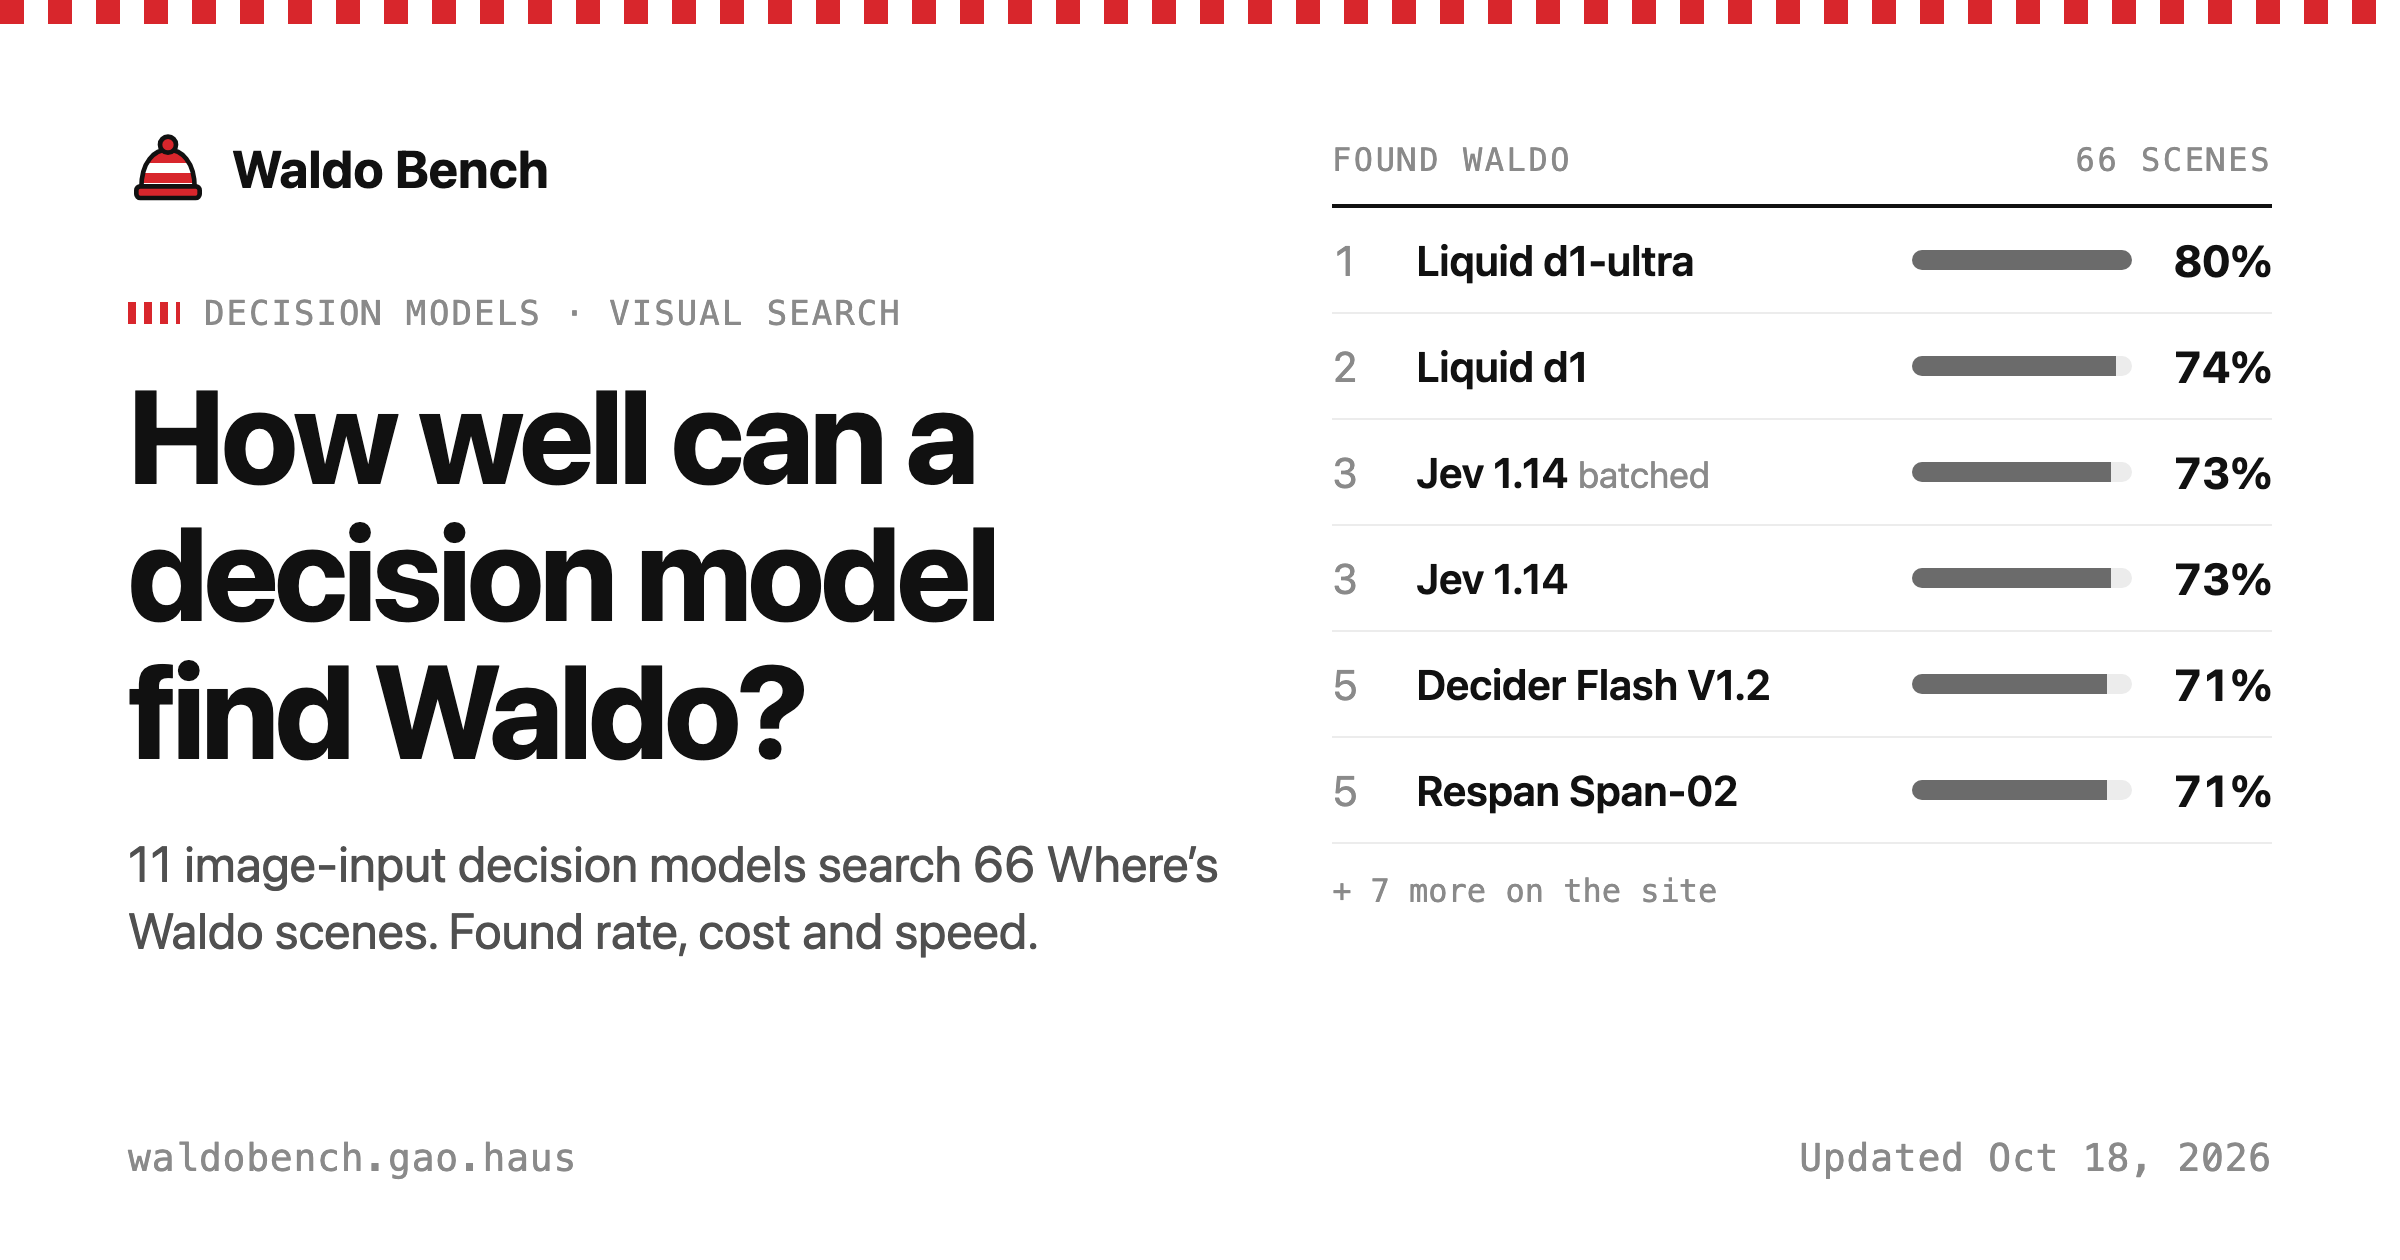
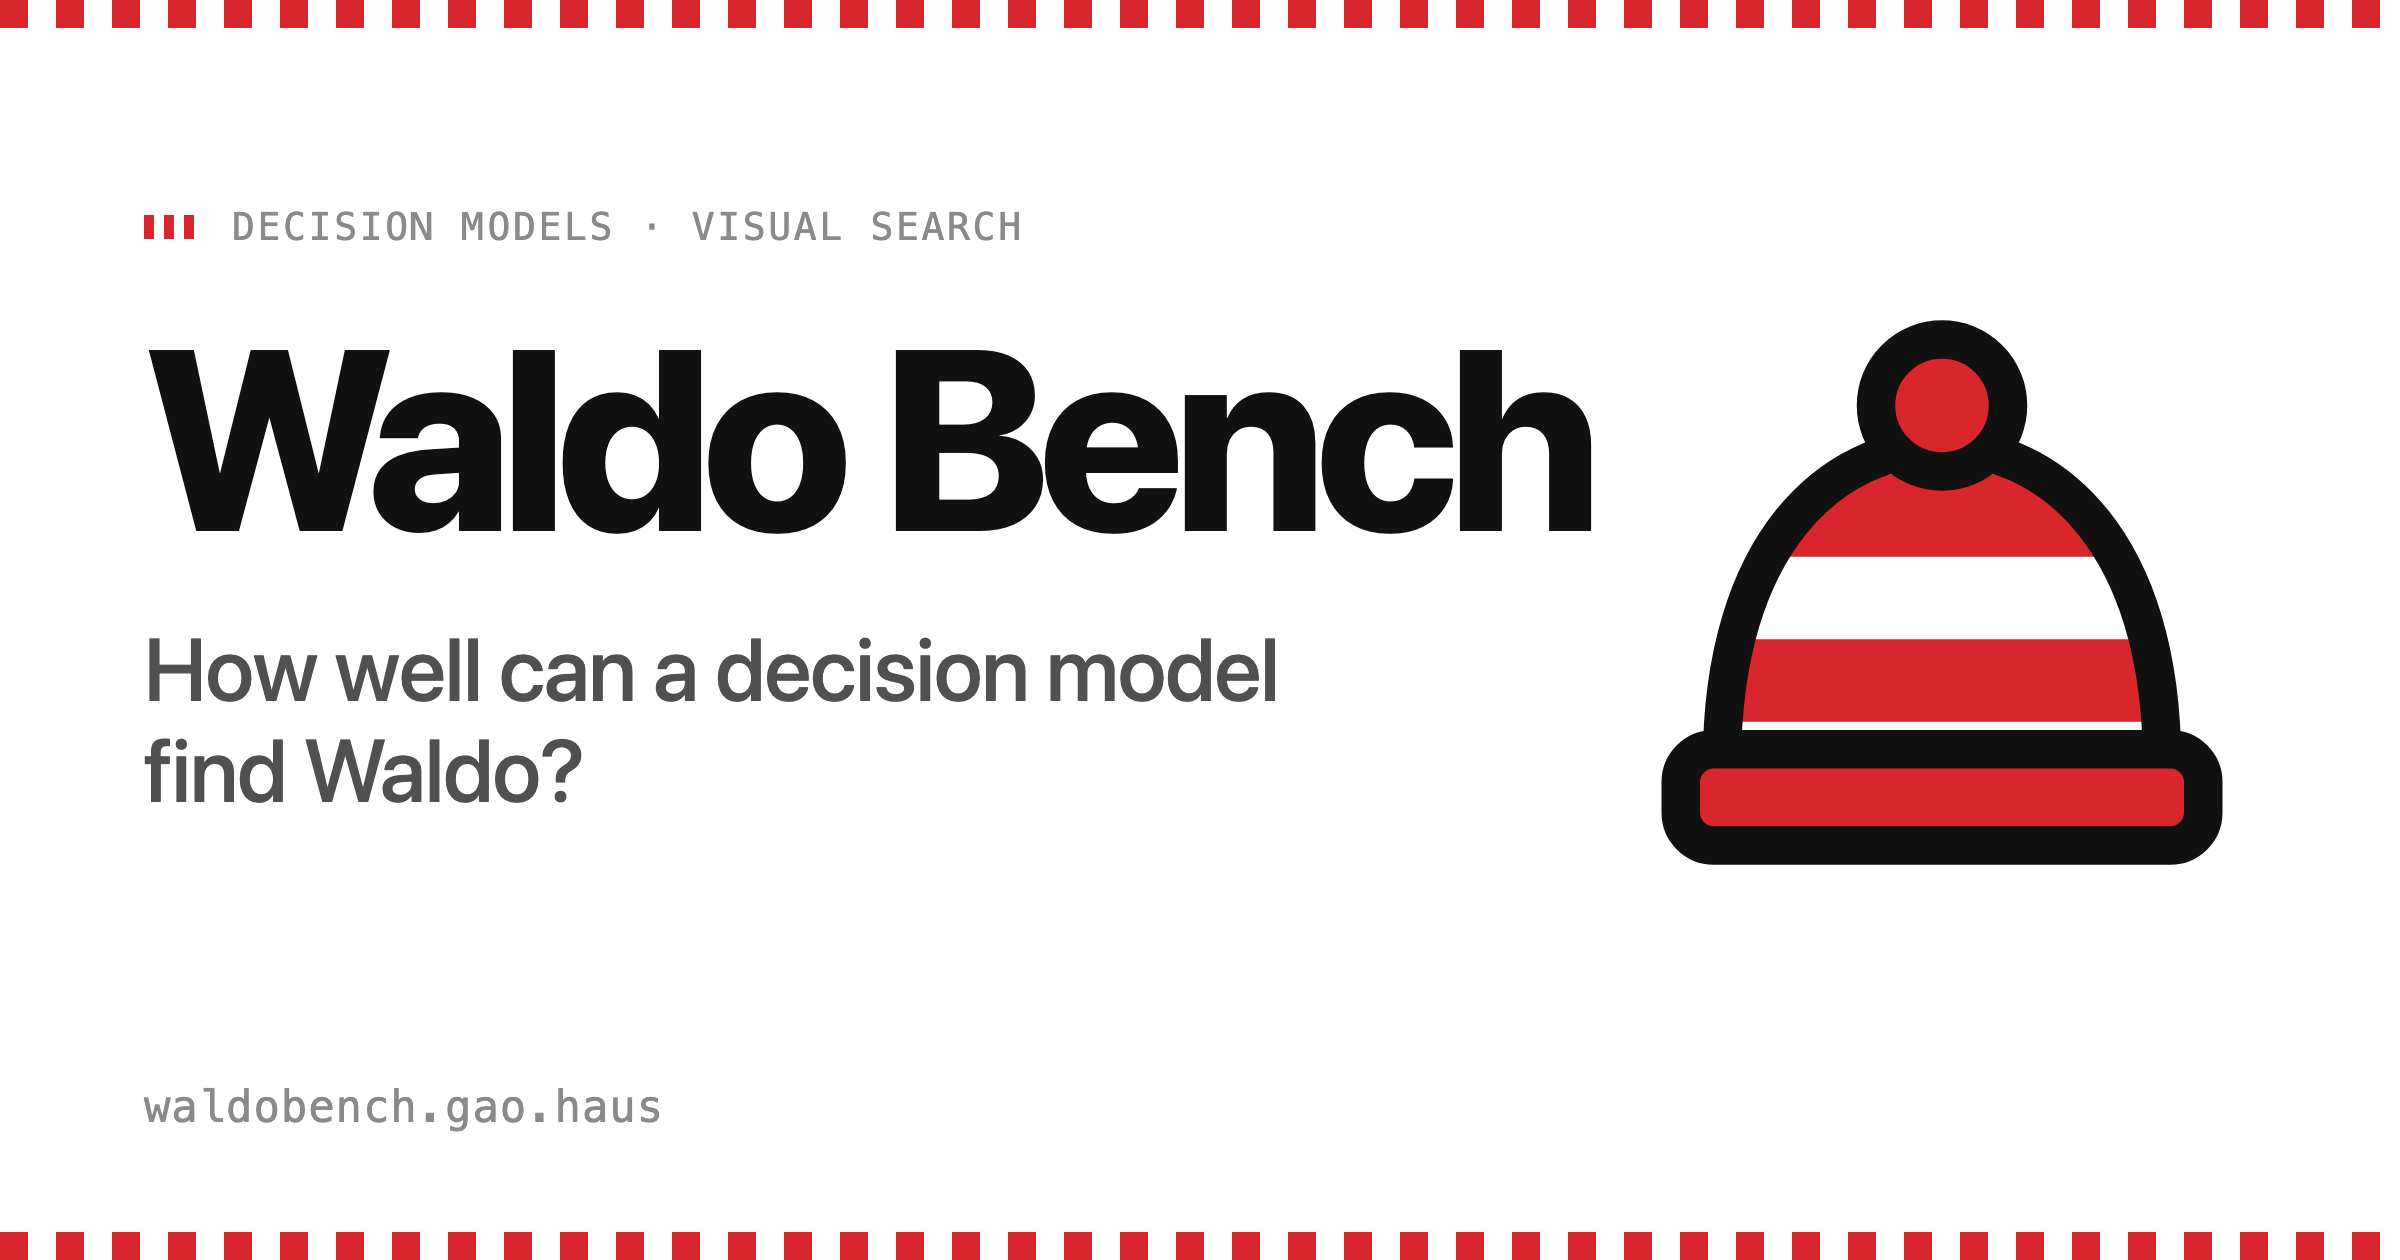
Refine social preview and remove outdated decoy labels

diff --git a/site/index.html b/site/index.html
@@ -7,18 +7,18 @@
 <meta name="description" content="Eleven image-input decision models search 66 Where&rsquo;s Waldo scenes. Found rate, cost and speed.">
 <meta property="og:type" content="website">
 <meta property="og:site_name" content="Waldo Bench">
-<meta property="og:title" content="How well can a decision model find Waldo?">
-<meta property="og:description" content="Eleven image-input decision models search 66 Where&rsquo;s Waldo scenes. Found rate, cost and speed.">
+<meta property="og:title" content="Waldo Bench">
+<meta property="og:description" content="How well can a decision model find Waldo? Eleven image-input decision models search 66 Where&rsquo;s Waldo scenes. Found rate, cost and speed.">
 <meta property="og:url" content="https://waldobench.gao.haus/">
 <meta property="og:image" content="https://waldobench.gao.haus/og.png">
 <meta property="og:image:width" content="2400">
 <meta property="og:image:height" content="1260">
-<meta property="og:image:alt" content="Waldo Bench: how well can a decision model find Waldo? The top of the leaderboard by found rate.">
+<meta property="og:image:alt" content="Waldo Bench: how well can a decision model find Waldo?">
 <meta name="twitter:card" content="summary_large_image">
-<meta name="twitter:title" content="How well can a decision model find Waldo?">
-<meta name="twitter:description" content="Eleven image-input decision models search 66 Where&rsquo;s Waldo scenes. Found rate, cost and speed.">
+<meta name="twitter:title" content="Waldo Bench">
+<meta name="twitter:description" content="How well can a decision model find Waldo? Eleven image-input decision models search 66 Where&rsquo;s Waldo scenes. Found rate, cost and speed.">
 <meta name="twitter:image" content="https://waldobench.gao.haus/og.png">
-<meta name="twitter:image:alt" content="Waldo Bench: how well can a decision model find Waldo? The top of the leaderboard by found rate.">
+<meta name="twitter:image:alt" content="Waldo Bench: how well can a decision model find Waldo?">
 <link rel="stylesheet" href="style.css">
 </head>
 <body>

diff --git a/site/play.html b/site/play.html
@@ -13,12 +13,12 @@
 <meta property="og:image" content="https://waldobench.gao.haus/og.png">
 <meta property="og:image:width" content="2400">
 <meta property="og:image:height" content="1260">
-<meta property="og:image:alt" content="Waldo Bench: how well can a decision model find Waldo? The top of the leaderboard by found rate.">
+<meta property="og:image:alt" content="Waldo Bench: how well can a decision model find Waldo?">
 <meta name="twitter:card" content="summary_large_image">
 <meta name="twitter:title" content="Can you beat the models? · Waldo Bench">
 <meta name="twitter:description" content="Find Waldo in ten Where&rsquo;s Waldo pictures, one guess each, then compare with eleven image-input decision models on the same pictures.">
 <meta name="twitter:image" content="https://waldobench.gao.haus/og.png">
-<meta name="twitter:image:alt" content="Waldo Bench: how well can a decision model find Waldo? The top of the leaderboard by found rate.">
+<meta name="twitter:image:alt" content="Waldo Bench: how well can a decision model find Waldo?">
 <link rel="stylesheet" href="style.css">
 <link rel="stylesheet" href="play.css">
 </head>
